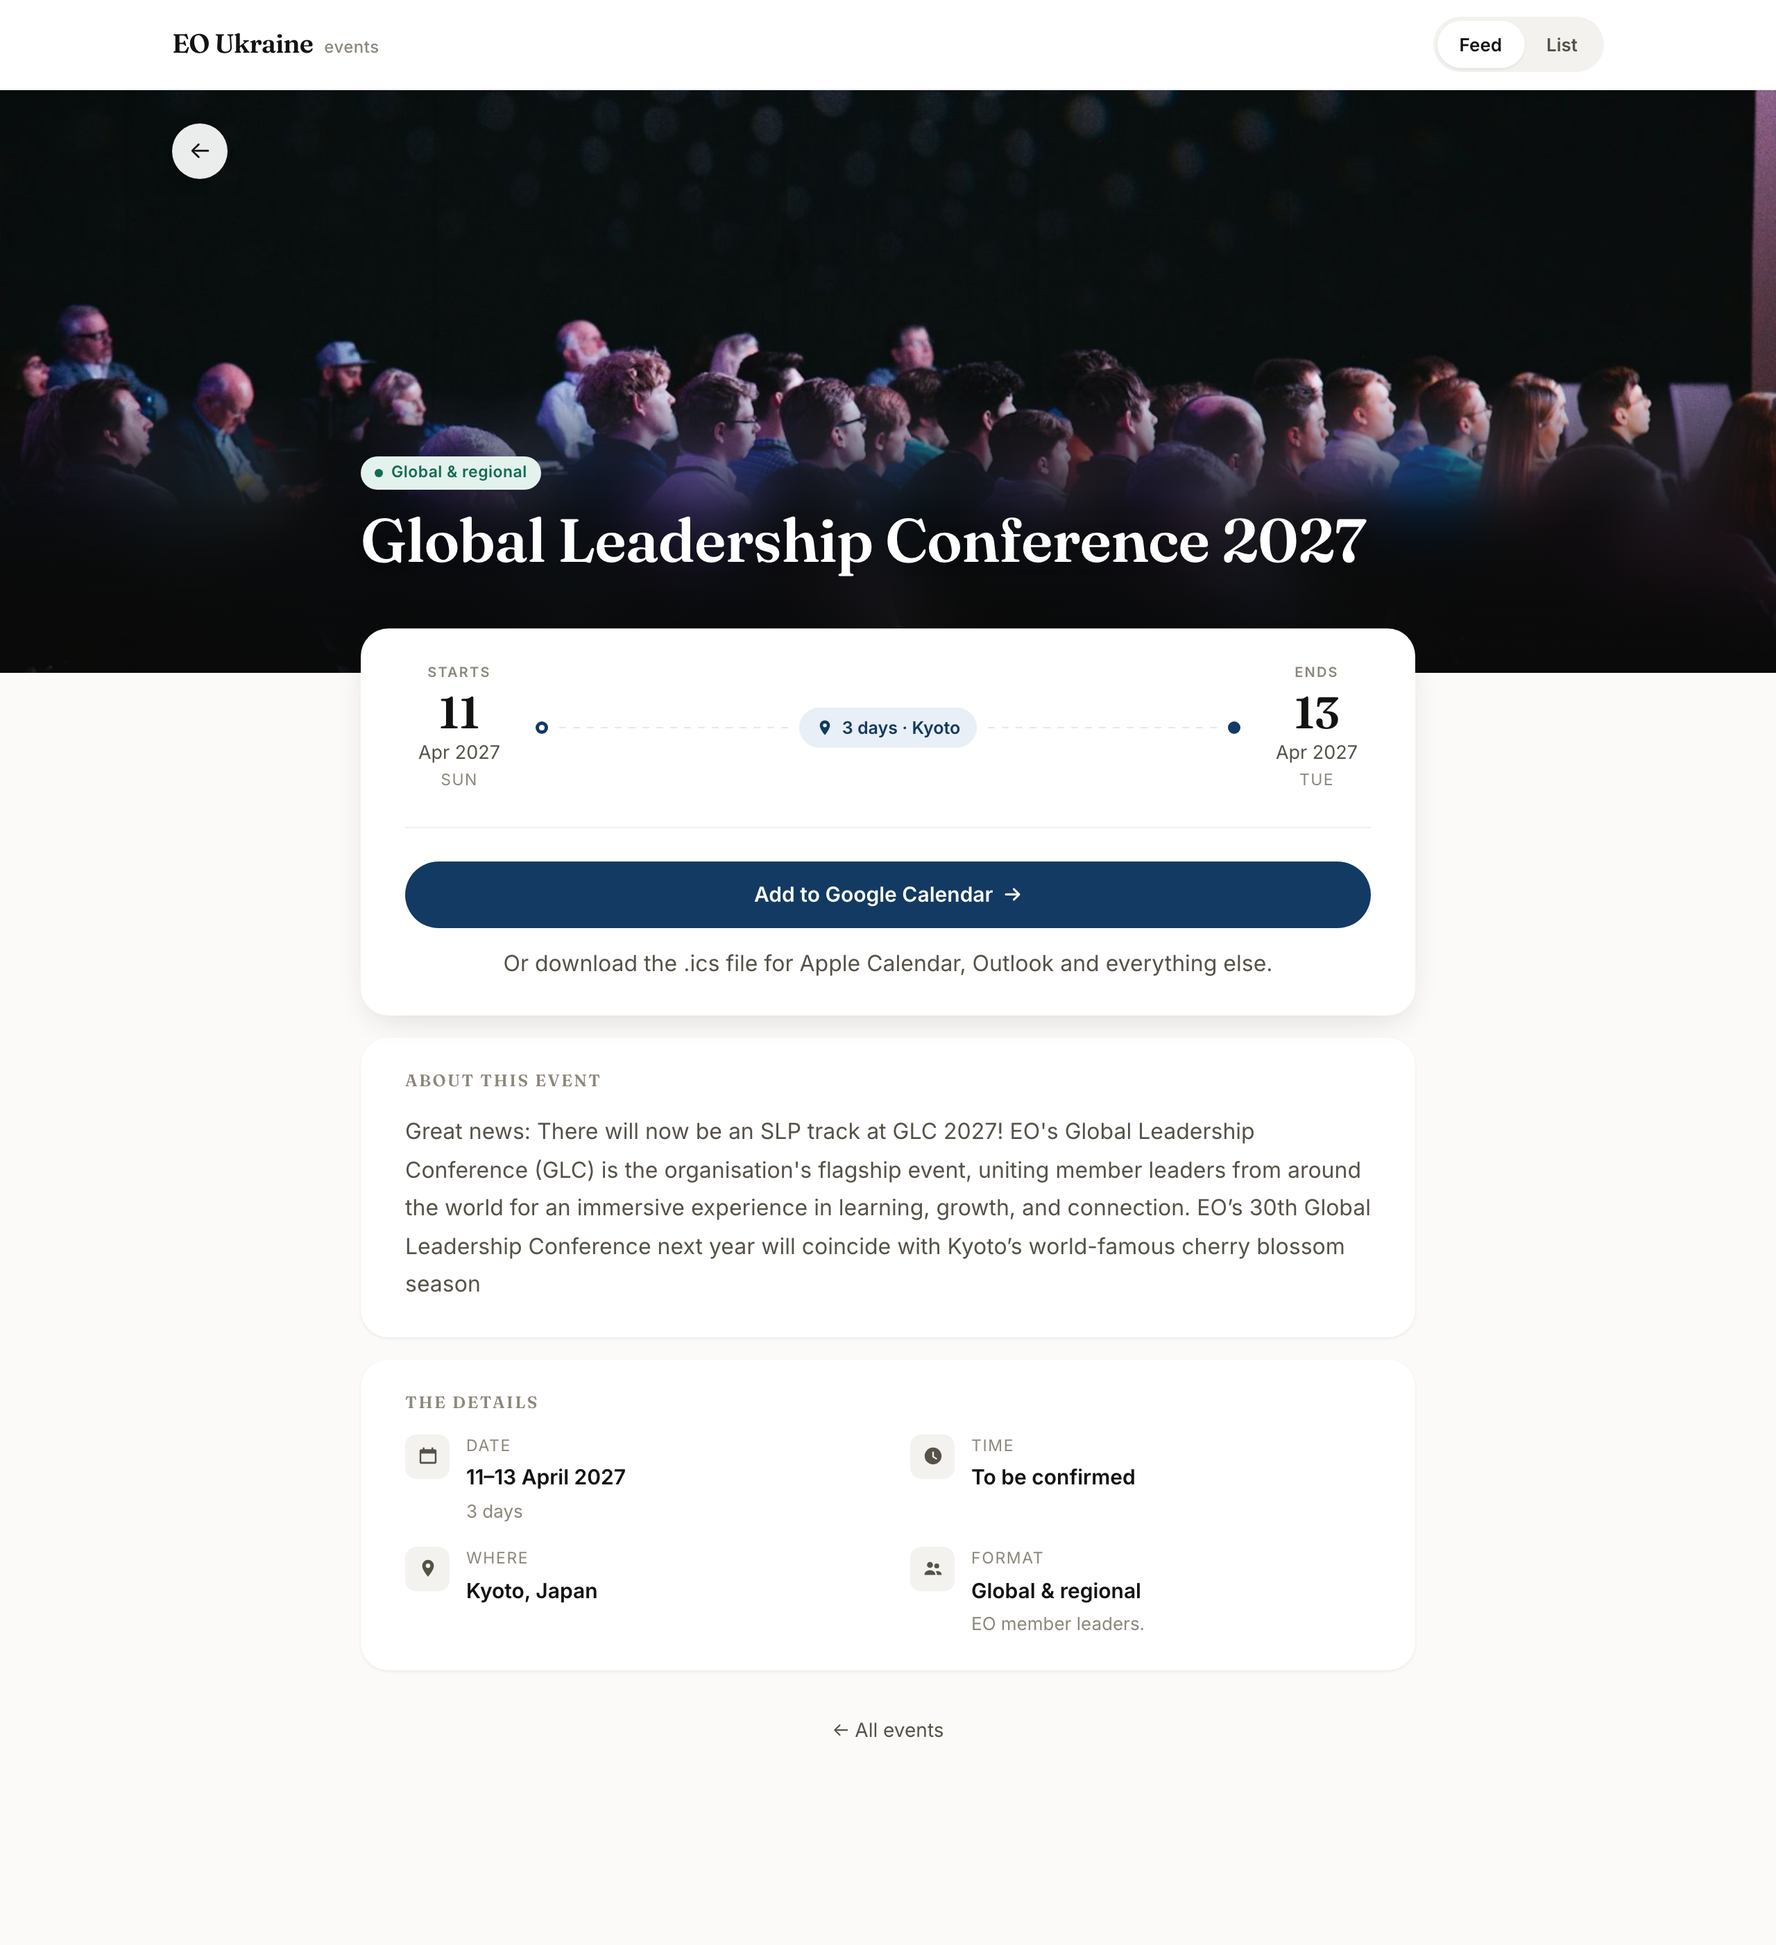
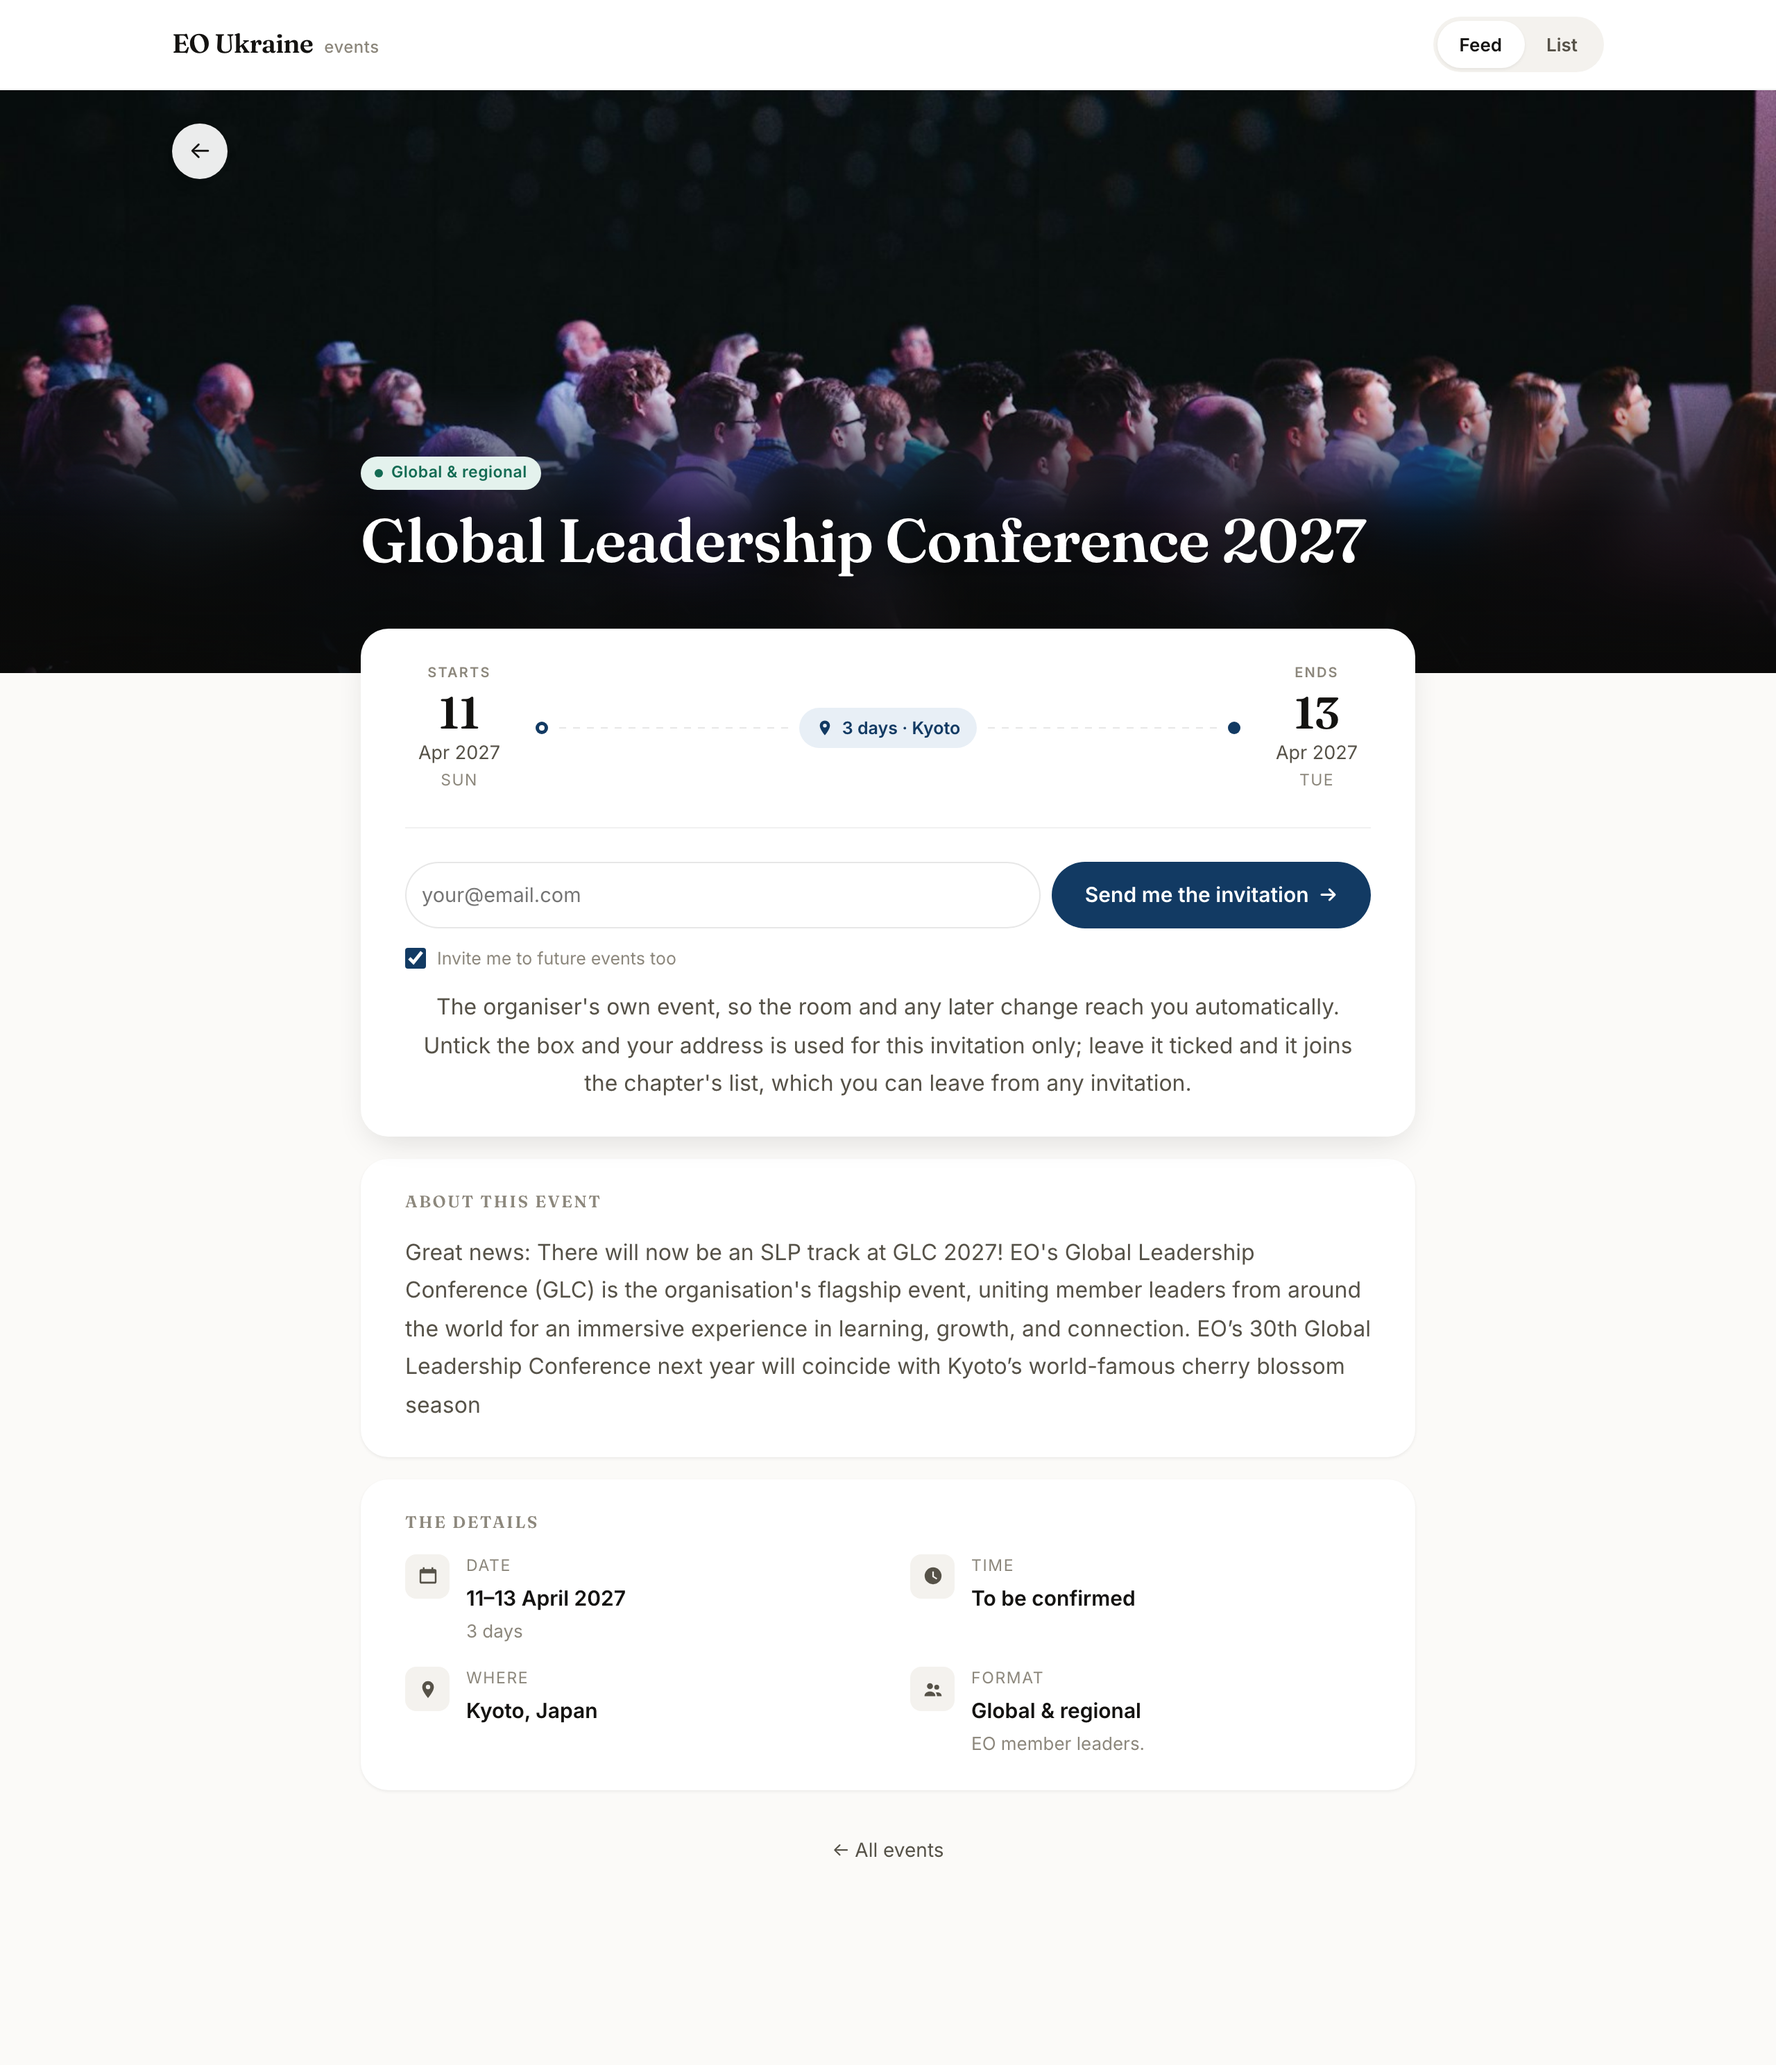
Make the unsubscribe link in an invitation actually work
It pointed at a page that explained where the personal link was, which is not a
way out - it is an apology. The link cannot carry a token: a Google Calendar
event has ONE description shared by every guest, and the API has no per-guest
text, so there is nowhere to put one.

So that page now asks for the address. Weaker than a token, and deliberately so:
knowing an address is enough to remove it. That is the standing of most "manage
your preferences" pages without a login, the harm is bounded at one click to
rejoin, and the alternative was a dead end.

The token path is unchanged and still the good one, shown in the confirmation to
the person who just gave us their address.

Neither path discloses anything. A wrong token gets the same answer as a used
one; an address that is not on the list gets the same answer as one that is, so
the form cannot be used to test who belongs to this chapter. A token typed into
the address field is not accepted as an address, or the weaker path would
undermine the stronger one.

If a personal link in the invitation genuinely matters, the way to get one is to
send our own mail alongside Google's - Apps Script can send as the authorising
user. That is a second email per invitation, so it is a decision rather than an
obvious improvement, and it is written down rather than assumed.

diff --git a/public/src/pages/UnsubscribePage.js b/public/src/pages/UnsubscribePage.js
@@ -3,12 +3,16 @@
  * ===========================================================================
  * Vue: pages/unsubscribe/[[token]].vue
  *
- * The link inside a calendar invitation is shared by every guest on that event, so it cannot
- * carry anybody's token. It lands here without one, and this page explains where a personal
- * link is — rather than asking for an address, which would let anyone remove anyone.
+ * Two ways in, because there have to be.
  *
- * With a token, one button. No sign-in, nothing to remember, and the token is the only thing
- * that identifies the person.
+ * WITH A TOKEN — from the confirmation shown when somebody joined. One button, and the token
+ * is the only thing that identifies them, so nobody can remove anybody else.
+ *
+ * WITHOUT ONE — from the line inside a calendar invitation. An event has ONE description
+ * shared by every guest, so that link cannot be personal; there is no token to put in it. The
+ * page asks for the address instead. Weaker, and the honest trade: knowing an address is
+ * enough to remove it. The alternative was a link that goes to a page saying "sorry, find
+ * your other link", which is not a way out at all.
  */
 import { escape as e } from '../format.js';
 
@@ -22,42 +26,57 @@ export async function load(route) {
 }
 
 export function mount({ token }, _ctx) {
+  const form = document.querySelector('[data-unsub-form]');
   const button = document.querySelector('[data-unsub]');
-  if (!button) return;
   const note = document.querySelector('[data-unsub-note]');
+  if (!button) return;
 
-  button.addEventListener('click', async () => {
+  const send = async (payload) => {
     button.disabled = true;
+    const previous = button.textContent;
     button.textContent = 'One moment…';
     try {
       const res = await fetch('/api/unsubscribe', {
         method: 'POST', headers: { 'content-type': 'application/json' },
-        body: JSON.stringify({ token }),
+        body: JSON.stringify(payload),
       });
       const body = await res.json();
       note.className = `unsub-note ${body.ok ? 'good' : 'bad'}`;
       note.textContent = body.message || (body.ok ? 'Done.' : 'That link is not valid.');
-      if (body.ok) button.remove();
-      else { button.disabled = false; button.textContent = 'Try again'; }
+      if (body.ok) { button.remove(); form?.remove(); }
+      else { button.disabled = false; button.textContent = previous; }
     } catch {
       note.className = 'unsub-note bad';
       note.textContent = 'That did not work. Try again in a moment.';
       button.disabled = false;
-      button.textContent = 'Try again';
+      button.textContent = previous;
     }
-  });
+  };
+
+  if (form) {
+    form.addEventListener('submit', (ev) => { ev.preventDefault();
+      send({ email: form.email.value }); });
+  } else {
+    button.addEventListener('click', () => send({ token }));
+  }
 }
 
 export function render({ token }) {
   if (!token) {
     return `
     <div class="unsub">
-      <h1>Leaving the list</h1>
-      <p>Your personal unsubscribe link is at the bottom of the message you received when you
-        joined. It is unique to you, which is what stops anybody else removing you.</p>
-      <p class="muted">Lost it? Reply to any invitation, or write to the chapter, and somebody
-        will take you off the list.</p>
-      <p><a class="register ghost sm" href="#/">Back to the events</a></p>
+      <h1>Stop being invited?</h1>
+      <p>Type the address you are invited on and you will not be added to new EO Ukraine
+        events. Invitations you have already accepted stay in your calendar — this only stops
+        future ones.</p>
+      <form class="unsub-form" data-unsub-form>
+        <input type="email" name="email" required autocomplete="email"
+               placeholder="your@email.com" aria-label="Your email address" />
+        <button type="submit" class="register" data-unsub>Unsubscribe
+          <span class="arr" aria-hidden="true">→</span></button>
+      </form>
+      <p class="unsub-note" data-unsub-note>You can join again any time from the events page.</p>
+      <p><a class="backlink" href="#/">← Back to the events</a></p>
     </div>`;
   }
   return `

diff --git a/public/assets/css/components.css b/public/assets/css/components.css
@@ -418,3 +418,10 @@
 .unsub-note{font-size:13.5px;color:var(--ink-3)}
 .unsub-note.good{color:var(--t-global)}
 .unsub-note.bad{color:var(--t-social)}
+.unsub-form{display:flex;gap:var(--sp-2);justify-content:center;flex-wrap:wrap;
+  margin:var(--sp-5) 0}
+.unsub-form input{height:44px;padding:0 16px;border:0;border-radius:var(--r-pill);
+  box-shadow:inset 0 0 0 1px var(--rule);background:var(--surface);color:var(--ink);
+  font:inherit;font-size:14.5px;min-width:230px}
+.unsub-form input:focus-visible{outline:2px solid var(--accent);outline-offset:1px}
+.unsub-form button{height:44px;border:0;cursor:pointer;font:inherit}

diff --git a/functions/api/unsubscribe.js b/functions/api/unsubscribe.js
@@ -7,7 +7,7 @@ export async function onRequestPost(context) {
 
   let body;
   try {
-    const out = await unsubscribe(context.env, input.token);
+    const out = await unsubscribe(context.env, { token: input.token, email: input.email });
     body = { ok: out.ok, message: out.message, reason: out.reason };
   } catch (err) {
     console.log(`unsubscribe: [${err.reason || 'failed'}] ${err.message}`);

diff --git a/docs/CALENDAR-INVITATIONS.md b/docs/CALENDAR-INVITATIONS.md
@@ -419,13 +419,30 @@ than addresses.
 
 ### Leaving
 
-Every invitation carries a line pointing at `/#/unsubscribe`. That page cannot identify anyone
-on its own — **a calendar invitation is shared by every guest, so it cannot carry one person's
-token** — so it explains where their personal link is rather than asking for an address, which
-would let anyone remove anyone.
+Two ways out, because one is not possible everywhere.
 
-The personal link, `/#/unsubscribe/<token>`, is shown once: in the confirmation, to the person
-who just gave us the address. That is the only moment we know for certain who they are.
+**`/#/unsubscribe/<token>`** — the good one. The token identifies exactly one person, so nobody
+can remove anybody else. It is shown once, in the confirmation, to the person who just gave us
+their address: the only moment we know for certain who they are.
+
+**`/#/unsubscribe`** — from inside a calendar invitation, where the link cannot be personal.
+**A Google Calendar event has one description shared by every guest**, so there is nowhere to
+put a per-person token; the API has no per-guest text at all. That page asks for the address
+instead.
+
+That second path is weaker, and the trade is deliberate: knowing an address is enough to remove
+it. It is the same standing as most "manage your preferences" pages without a login, the harm
+is bounded — one click to rejoin — and the alternative was a link leading to a page saying
+"find your other link", which is not a way out at all.
+
+Neither path discloses anything. A wrong token and a used one get the same answer; an address
+that is not on the list gets the same answer as one that is, so the form cannot be used to test
+who belongs to this chapter.
+
+**If a personal link in the invitation matters**, the way to get one is to send our own message
+alongside Google's — Apps Script can send mail as the authorising user, so each subscriber
+could receive a short note carrying their own token. That is a second email per invitation, so
+it is a decision rather than an obvious improvement.
 
 ### One more scope
 
